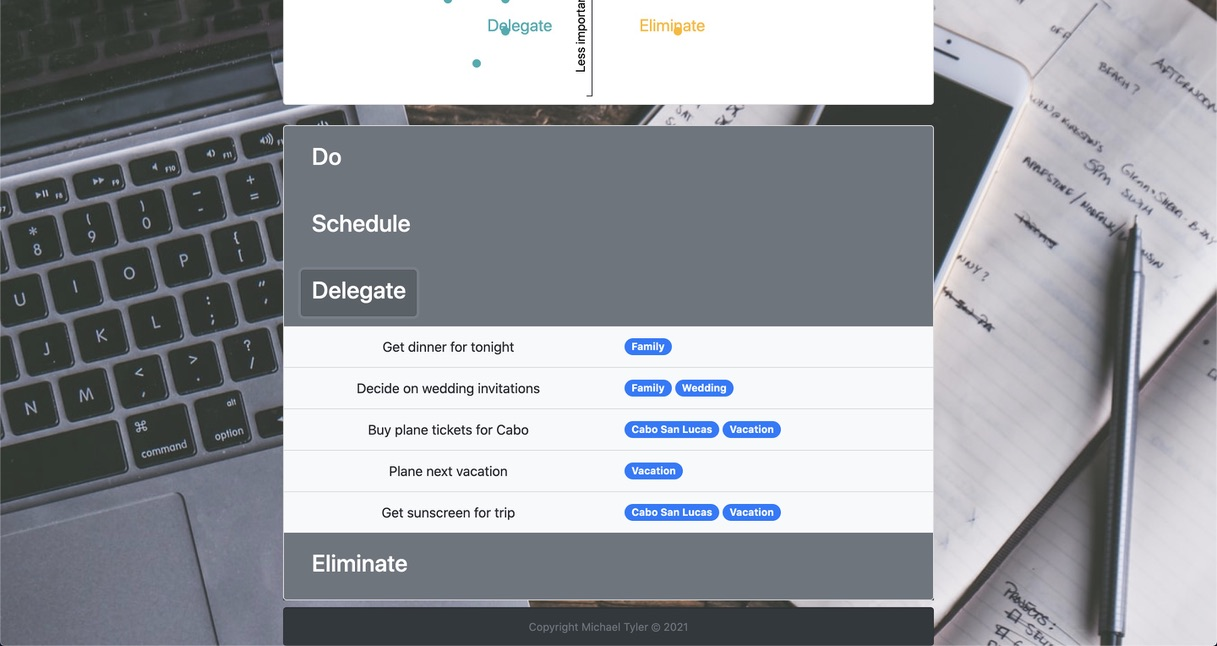
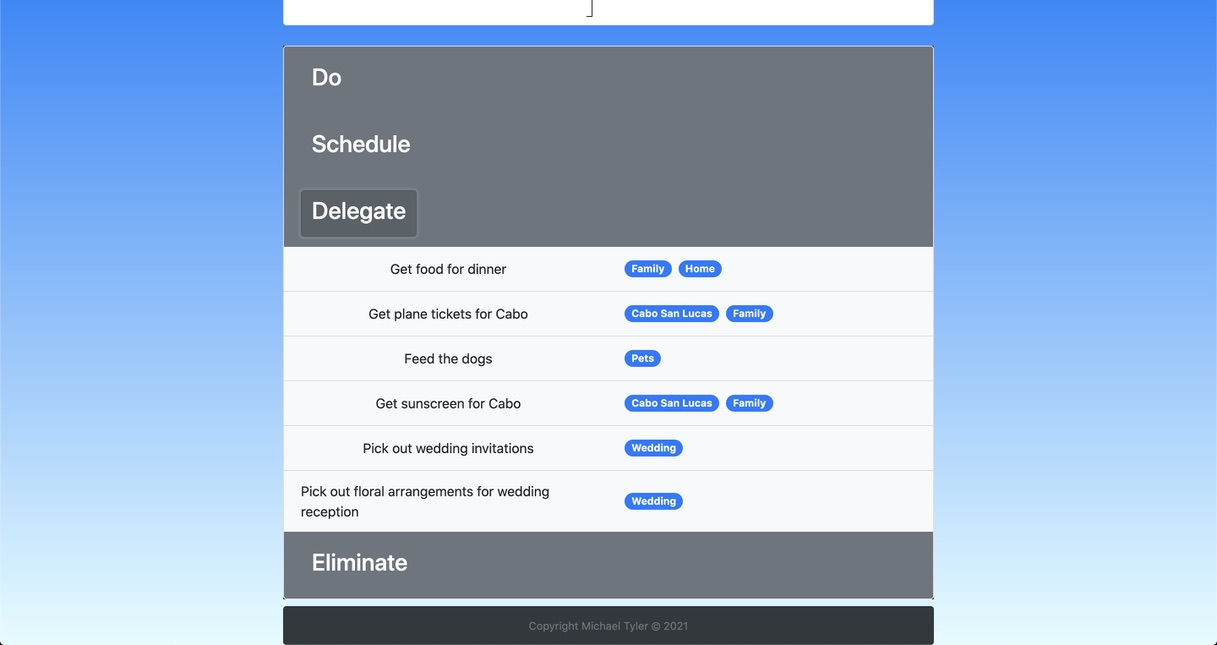
mobile fixed

diff --git a/src/components/todos/TodoList.js b/src/components/todos/TodoList.js
@@ -3,8 +3,8 @@ import { Todo } from "./Todo";
 import { ListGroup, Row, Col, Container, Button } from "react-bootstrap";
 import { TodoContext } from "./TodoDataProvider";
 import { CategorySelect } from "./CategorySelect";
-import { GrEdit } from "react-icons/gr";
-import { GoChecklist } from "react-icons/go";
+import { FiEdit2 } from "react-icons/fi";
+import { FaCheck } from "react-icons/fa";
 import { TodoTagList } from "../todotags/TodoTagsList";
 import ClosingTag from "../tags/ClosingTag";
 
@@ -27,29 +27,35 @@ export const TodoList = (props) => {
 
     
     return (
-        <Container className="">
+        <Container className="mt-4" style={{maxWidth:"1000px"}}>
             <CategorySelect onChange={id => setCategoryId(id)} />
             {!tagId ? "" : <ClosingTag setTagId={setTagId}/>}
             <ListGroup>{todos.map((td)=>{
                 return (
-                <ListGroup.Item style={{"borderRadius":"50px 10px 50px 15px"}} className="m-1">
-                    <Row className="m-2">
-                        <Todo key={td.id} task={td.task} />
-                        <TodoTagList setTagId={setTagId} todoTags={td.tags}/>
+                    <ListGroup.Item style={{"borderRadius":"50px 30px"}} className="m-2">
+                    <Row xs={1} sm={1} md={4} className=" p-1 d-flex justify-content-center">
+                        <Col  className="d-flex justify-content-center">
+                            <Todo key={td.id} task={td.task} />
+                        </Col>
+                        <Col className="d-flex flex-wrap">
+                            <TodoTagList setTagId={setTagId} todoTags={td.tags}/>
+                        </Col>
                         <Col className="d-flex justify-content-center">
                             <div className="text-muted d-flex align-items-center">{td.category.label}</div>
                         </Col>
-                        <Col className="d-flex justify-content-end">
-                        <Button
-                        className="mr-2"
-                        onClick={(e)=> {
+                        <Col style={{maxHeight:"50px"}} className="d-flex justify-content-center">
+                            <Button
+                            className="m-1"
+                            onClick={(e)=> {
                             e.preventDefault()
                             props.history.push(`/todo/form/${td.id}`)
                             }}>
-                                <GrEdit style={{color:"white"}}/>
-                        </Button> 
-                        <Button 
-                        onClick={(e)=> {
+                                <FiEdit2 style={{color:"white"}}/>
+                            </Button> 
+                            <Button 
+                            className="m-1"
+                            variant="success"
+                            onClick={(e)=> {
                             e.preventDefault()
                             deleteTodo(td.id)
                             .then(()=> {
@@ -61,12 +67,12 @@ export const TodoList = (props) => {
                                 getTodos()
                             }
                             })}}>
-                                <GoChecklist style={{color:"black"}}/>
+                                <FaCheck style={{color:"white"}}/>
                             </Button>
                         </Col>
                     </Row>
-                </ListGroup.Item>
-                    )
+                    </ListGroup.Item>
+                        )
             }
         )}  
             </ListGroup>

diff --git a/src/components/tags/TagList.js b/src/components/tags/TagList.js
@@ -29,7 +29,7 @@ export const TagList = () => {
             <Container fluid>
               <Row>
                 <Col className="d-flex justify-content-center">
-                  <Card style={{borderRadius:"50px 10px 50px 15px", padding:"10px"}}>
+                  <Card className="p-4" style={{borderRadius:"50px 30px"}}>
                     <h1>Add some <Badge pill variant="primary">tags</Badge> to help organize your tasks even more!</h1>
                     <h5 className="d-flex justify-content-center">You can click these on the homepage and todo list to filter by specific tags</h5>
                   </Card>
@@ -39,27 +39,22 @@ export const TagList = () => {
             )
         } else {
           return (
-            <Container sm ={1} className="d-flex justify-content-center">
-              <ListGroup style={{width: "50rem"}}>
+            <Container style={{maxWidth:"750px"}}>
+              <ListGroup>
                 {tags.map((t) => {
                     return (
-                            <ListGroup.Item style={{borderRadius:"50px 10px 50px 15px"}} className="m-2" key={t.id}>
-                                <Row className="d-flex m-2">
-                                  <Col className="d-flex align-items-center">
-                                    <Tag tag={t} />
-                                  </Col>
-                                  <Col className="d-flex justify-content-end">
+                            <ListGroup.Item style={{"borderRadius":"50px 30px"}} className="m-2" key={t.id}>
+                              <Row className="p-3">
+                                <Tag tag={t} />
                                     <Button 
                                     className="mr-3"
-                                    style={{borderRadiu:"50px"}}
                                     variant={"danger"} 
                                     onClick={(e) => {
-                                        e.preventDefault()
-                                        deleteTag(t.id)
-                                        .then(getTags)
+                                      e.preventDefault()
+                                      deleteTag(t.id)
+                                      .then(getTags)
                                     }}>Delete</Button>
-                                  </Col>
-                                </Row>
+                              </Row>
                             </ListGroup.Item>
                         )
                       })}

diff --git a/src/components/tags/TagForm.js b/src/components/tags/TagForm.js
@@ -1,5 +1,5 @@
 import React, { useContext, useState } from "react";
-import { Form, Row, Col, Button } from "react-bootstrap";
+import { Form, Row, Col, Button, Container } from "react-bootstrap";
 import { TagContext } from "../tags/TagsDataProvider";
 
 
@@ -30,26 +30,22 @@ export const TagForm = () => {
       }
 
     return (
-          <Row className="d-flex justify-content-center">
-            <Form className="d-flex mb-4 mt-4">
-            <Col  xs={3} className="d-flex align-items-center">
-              <h5 style={{color:"#fff"}}>New Tag</h5>
-            </Col>
-            <Col xs={8} className="d-flex align-items-center">
-                    <Form.Control
-                        type="input"
-                        placeholder="Add tag"
-                        name="label"
-                        value={tag.label}
-                        autoComplete={"off"}
-                        onChange={handleControlledInputChange}
-                    />
-            </Col>
-            <Col xs={4} className="d-flex align-items-center">
-              <Button onClick={handleSubmitButtonPress}>Add Tag</Button>
-            </Col>
-            </Form>
-          </Row>
-
+            <Container fluid className="d-flex justify-content-center m-4">
+              <Row>
+                <Col>
+                  <Form.Control
+                      type="input"
+                      placeholder="New Tag"
+                      name="label"
+                      value={tag.label}
+                      autoComplete={"off"}
+                      onChange={handleControlledInputChange}
+                  />
+                </Col>
+                <Col>
+                  <Button onClick={handleSubmitButtonPress}>Add Tag</Button>
+                </Col>
+              </Row>
+            </Container>
         )
 }

diff --git a/src/components/auth/LandingPage.js b/src/components/auth/LandingPage.js
@@ -1,30 +1,34 @@
 import React from 'react';
 import {Card, Carousel} from 'react-bootstrap'
 import ToolTip from '../../images/ToolTip.jpeg'
-import TodoList from '../../images/TodoList.png'
+import TodoList from '../../images/TodoList.jpeg'
 import FilterCategory from '../../images/FilterCategory.jpeg'
 import FilterTag from '../../images/FilterTag.jpeg'
 import TodoAccordian from '../../images/TodoAccordian.jpeg'
+import TagList from '../../images/TagList.jpeg'
 
 //this is the landing page card
 export const LandingPageContent = () => {
   return (
     <Card className="mb-5" style={{ background:"#DDE2E3", borderRadius:"50px", padding:"20px"}}>
       <Carousel>
-        <Carousel.Item>
+        <Carousel.Item interval={2000}>
           <Card.Img variant="top" src={ToolTip} />
         </Carousel.Item>
-        <Carousel.Item>
+        <Carousel.Item interval={1500}>
+          <Card.Img variant="top" src={TodoAccordian} />
+        </Carousel.Item>
+        <Carousel.Item interval={1500}>
           <Card.Img variant="top" src={TodoList} />
         </Carousel.Item>
-        <Carousel.Item>
-          <Card.Img variant="top" src={FilterCategory} />
-        </Carousel.Item>
-        <Carousel.Item>
+        <Carousel.Item interval={1500}>
           <Card.Img variant="top" src={FilterTag} />
         </Carousel.Item>
-        <Carousel.Item>
-          <Card.Img variant="top" src={TodoAccordian} />
+        <Carousel.Item interval={1500}>
+          <Card.Img variant="top" src={FilterCategory} />
+        </Carousel.Item> 
+        <Carousel.Item interval={1500}>
+          <Card.Img variant="top" src={TagList} />
         </Carousel.Item>
       </Carousel>
       <Card.Title style={{color:"#3C493F"}} className="m-2"><h2>Why sign up?</h2></Card.Title>

diff --git a/src/components/dash/DashboardModal.js b/src/components/dash/DashboardModal.js
@@ -89,21 +89,5 @@ export const DashboardModal = () => {
         </>
 
   )
-  
-  // return(
-  //   <Card bg="secondary" border="light">
-  //   <Card.Header as="h5">What is the Eisenhower matrix?</Card.Header>
-  //   <Card.Body>
-  //     <Card.Title>Eisenhower Matrix:</Card.Title>
-  //     <Card.Text>
-  //        <p>The Eisenhower Matrix is a method, developed by Dwight D. Eisenhower, that can help you prioritize and decide on tasks by urgency and importance, 
-  //        along with sifting out less urgent and important tasks, which can be delegated or not done at all.</p>
-  //        {/* <p>When deciding on how to rate your tasks between important and urgent, think about a few key points. For something to be urgent, 
-  //          it must have a completion time in the near future. However, for the same task to be important, it must be something only you can do. For example, 
-  //          think about a task like feeding your pets. Of course this task is urgent, but could you ask for some help from a neighbor or a loved one? When rating your tasks less urgent or important, 
-  //          don't think about them as being less meaningful, but that they can be put on pause or designated to others. Finally, remember these tasks can change. What was a "schedule" yesterday, could become a "do" today.</p>  */}
-  //     </Card.Text>
-  //   </Card.Body>
-  // </Card>
-  // )
+
 }

diff --git a/src/components/nav/NavBar.js b/src/components/nav/NavBar.js
@@ -3,7 +3,7 @@ import { Link } from "react-router-dom"
 import Navbar from "react-bootstrap/Navbar"
 import Nav from "react-bootstrap/Nav"
 import { Button } from "react-bootstrap"
-import Logo from "./WhatToDo.png"
+import Logo from "../../images/Logo.png"
 import "./NavBar.css"
 
 export const NavBar = (props) => {
@@ -15,9 +15,9 @@ export const NavBar = (props) => {
         <Navbar.Toggle aria-controls="basic-navbar-nav" />
         <Navbar.Collapse id="basic-navbar-nav container ">
           <Nav className="mr-auto container-fluid"> 
-            {/* <Button variant="outline-primary" className="mx-2 my-1" onClick={() => props.history.push("/my-posts")}>My Posts</Button> */}
-            <Button variant="outline-info" className="mx-2 my-1" onClick={() => props.history.push("/todo")}>Todo List</Button>
+
             <Button variant="outline-info" className="mx-2 my-1" onClick={() => props.history.push("/todo/form")}>Add Task</Button>
+            <Button variant="outline-info" className="mx-2 my-1" onClick={() => props.history.push("/todo")}>Todo List</Button>
             <Button variant="outline-info" className="mx-2 my-1" onClick={() => props.history.push("/tags")}>Tag Manager</Button>
             <Button variant="outline-light" className="mx-2 my-1 ml-md-auto" onClick={() => props.history.push("/logout")}>Logout</Button>
           </Nav>

diff --git a/src/components/todos/TodoForm.js b/src/components/todos/TodoForm.js
@@ -87,11 +87,11 @@ export const TodoForm = (props) => {
 
     return (
             
-        <Container className="mt-5" fluid>
-            <Row className="justify-content-center">
-            <Form style={{width:'30rem', background:"#DDE2E3", borderRadius:"50px", padding:"25px"}}>
+        <Container className="mt-5 mb-5" fluid>
+            <Row className="justify-content-center m-2">
+            <Form style={{maxWidth:"500px",background:"#DDE2E3", borderRadius:"50px", padding:"25px"}}>
                 <Col className="d-flex justify-content-center">
-                <h1  style={{color:"#2A2B26", fontSize:"50px", width:"25rem"}} className="d-flex justify-content-center">
+                <h1  style={{color:"#2A2B26", fontSize:"50px"}} className="d-flex justify-content-center">
                     {isEditMode ? "Edit Todo" : "Add a new todo"}
                 </h1>
                 </Col>

diff --git a/src/components/todotags/TodoTagsList.js b/src/components/todotags/TodoTagsList.js
@@ -18,7 +18,7 @@ export const TodoTagList = (props) => {
   });
 
   return (
-    <Col className="d-flex">
+    <Col className="d-flex flex-wrap">
         {props.todoTags.map((todoTag) => {
           return (
             <div className="d-flex align-items-center">
@@ -28,7 +28,7 @@ export const TodoTagList = (props) => {
                 props.setTagId(todoTag.id)
               }} 
               variant="primary" 
-              className="ml-1" 
+              className="m-1" 
               key={todoTag.id}
               > {todoTag.label} 
             </Badge>

diff --git a/src/components/auth/Login.css b/src/components/auth/Login.css
@@ -1,6 +1,6 @@
 
 
-@media screen and (min-width: 0px) and (max-width: 400px) {
+@media screen and (min-width: 0px) and (max-width: 500px) {
 .background--wrapper__login {
   background: linear-gradient(#1789FC, #E2FDFF) no-repeat center;
   -webkit-background-size: cover;
@@ -8,7 +8,7 @@
   background-size:cover;
 }
 }
-  @media screen and (min-width: 400px) {
+  @media screen and (min-width: 500px) {
 .background--wrapper__login {
       height:100vh;
       width:100vw;

diff --git a/src/components/auth/Register.js b/src/components/auth/Register.js
@@ -61,7 +61,7 @@ export const Register = props => {
 
   return (
     <div className="background--wrapper__login">
-      <Container className="my-5">
+      <Container>
         <Form.Label><h1 style={{color:"#e6e3f1"}}>What to do?</h1></Form.Label>
         <Form onSubmit={handleFormSubmit}>
           <Row  style={{border:"5px solid white", "borderRadius": "10px 40px 20px 50px", width:"20rem"}} className="p-2">

diff --git a/src/components/tags/Tag.js b/src/components/tags/Tag.js
@@ -3,7 +3,7 @@ import { Badge, Col } from "react-bootstrap"
 
 export default ({ tag }) => {
   return (
-    <Col className="d-flex align-items-center ml-2">
+    <Col className="d-flex align-items-center ml-1">
       <Badge style={{fontSize:"20px"}} pill variant="primary">{tag.label}</Badge> 
     </Col>
   );
